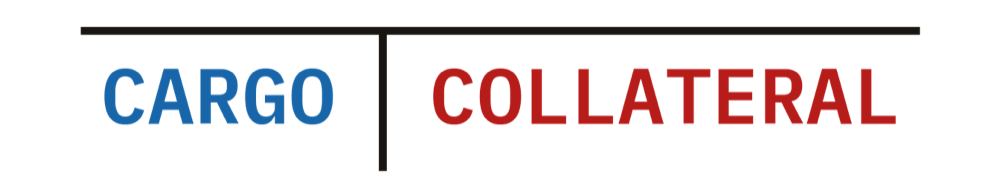
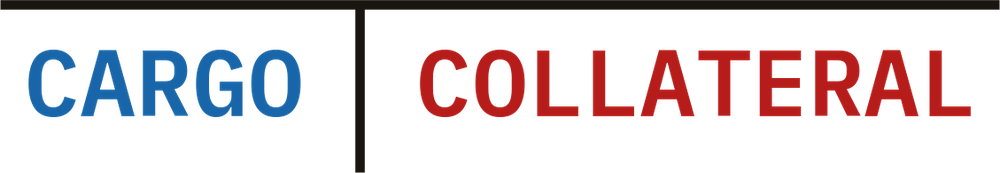
Crop the Cargo & Collateral wordmark to its content

Changed region(s): [[0.0, 0.0, 1.0, 1.0]]

diff --git a/cargo-and-collateral.html b/cargo-and-collateral.html
@@ -66,7 +66,7 @@
     <header class="page-head">
       <div class="col">
         <p class="eyebrow reveal">Cargo &amp; Collateral</p>
-        <img class="wordmark reveal" src="/img/cargo-and-collateral-wordmark.png" alt="Cargo & Collateral" width="1000" height="190">
+        <img class="wordmark reveal" src="/img/cargo-and-collateral-wordmark.png" alt="Cargo & Collateral" width="1000" height="173">
         <h1 class="page-title reveal">Macro-finance and shipping, read through balance sheets and monetary architecture.</h1>
         <p class="lede lede--ink reveal">Seaborne trade and monetary systems can be read the same way: as claims and obligations. Forwarder and carrier working capital, chartering and freight rates, chokepoint transits and tonne-mile demand, ship finance and marine insurance on one side; repo markets, debt management offices, central-bank balance sheets and the euro-area settlement plumbing on the other. Defence appears occasionally and on the same terms: rearmament as a working-capital problem before a capability one.</p>
         <div class="actions reveal">
